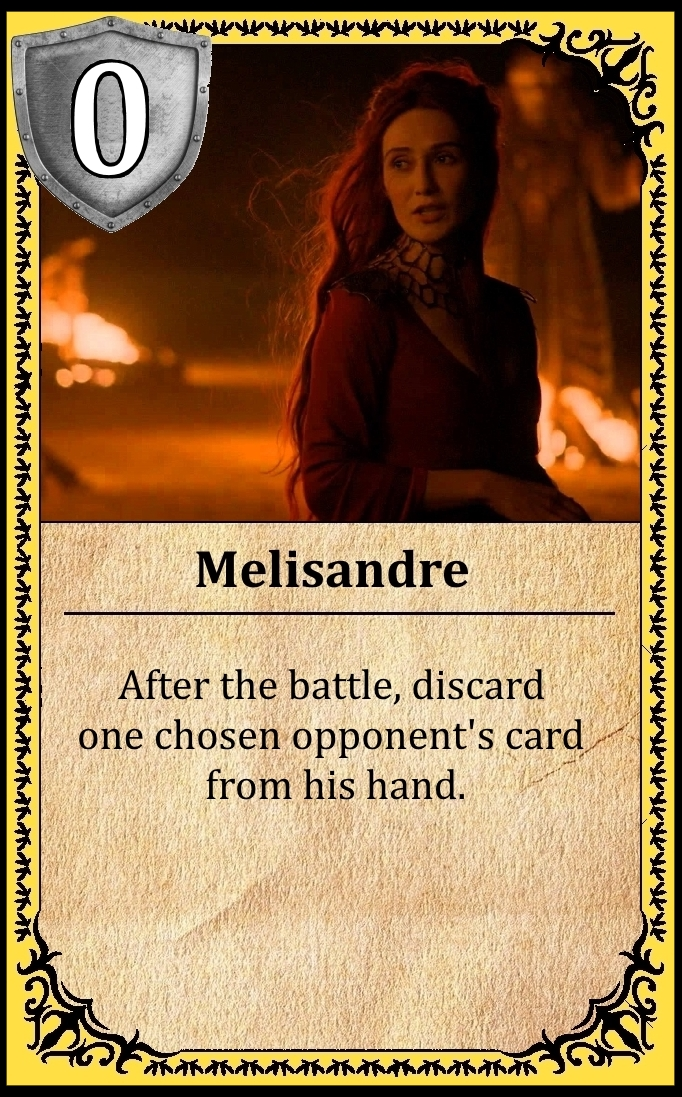
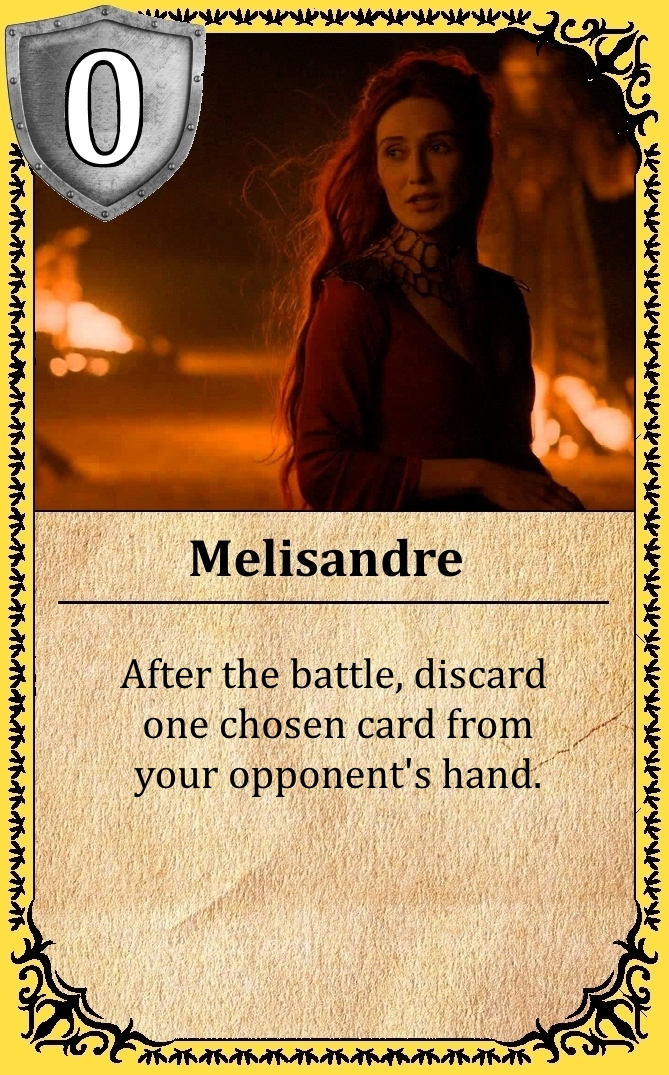
melisandre worded better and a bit more positioning correction

diff --git a/9p_files/main.css b/9p_files/main.css
@@ -928,12 +928,12 @@ q:before, q:after { content: ""; content: none; }
     left: 26%;
 }
 .pos-deepwood-harbor {
-    top: 17.5%;
+    top: 17.2%;
     left: 16%;
 }
 .pos-karhold {
-    top: 16%;
-    left: 43%;
+    top: 16.5%;
+    left: 43.5%;
 }
 .pos-stonyshore, .pos-stoneyshore {
     top: 31%;
@@ -944,7 +944,7 @@ q:before, q:after { content: ""; content: none; }
     left: 34%;
 }
 .pos-whiteharbor-harbor {
-    top: 37%;
+    top: 36.5%;
     left: 36%;
 }
 .pos-widowswatch {
@@ -995,8 +995,8 @@ q:before, q:after { content: ""; content: none; }
     left: 3%;
 }
 .pos-goldensound {
-    top: 62%;
-    left: 5%;
+    top: 61.5%;
+    left: 5.5%;
 }
 .pos-lannisport {
     top: 63%;
@@ -1031,12 +1031,12 @@ q:before, q:after { content: ""; content: none; }
     left: 22%;
 }
 .pos-seagard {
-    top: 47%;
+    top: 46.5%;
     left: 21%;
 }
 .pos-ironmansbay {
-    top: 55%;
-    left: 4%;
+    top: 54%;
+    left: 4.5%;
 }
 /*****************************************/
 .pos-pyke {
@@ -1065,8 +1065,8 @@ q:before, q:after { content: ""; content: none; }
     left: 16%;
 }
 .pos-oldtown-harbor {
-    top: 82%;
-    left: 7%;
+    top: 81.8%;
+    left: 7.2%;
 }
 .pos-redwynestraights {
     top: 90%;
@@ -1165,7 +1165,7 @@ q:before, q:after { content: ""; content: none; }
 }
 .pos-gulltown {
 	top: 55%;
-	left: 43%;
+	left: 43.2%;
 }
 .pos-whisperingwood {
 	top: 52.5%;
@@ -1237,7 +1237,7 @@ q:before, q:after { content: ""; content: none; }
 }
 .pos-gulltown-harbor {
 	top: 53.5%;
-	left: 46.5%
+	left: 46.7%
 }
 .pos-norvos-harbor {
 	top: 53%;
@@ -1268,7 +1268,7 @@ q:before, q:after { content: ""; content: none; }
 	left: 53%
 }
 .pos-byte, .pos-thebyte {
-	top: 38%;
+	top: 37%;
 	left: 44%
 }
 .pos-bayofnorvos {
